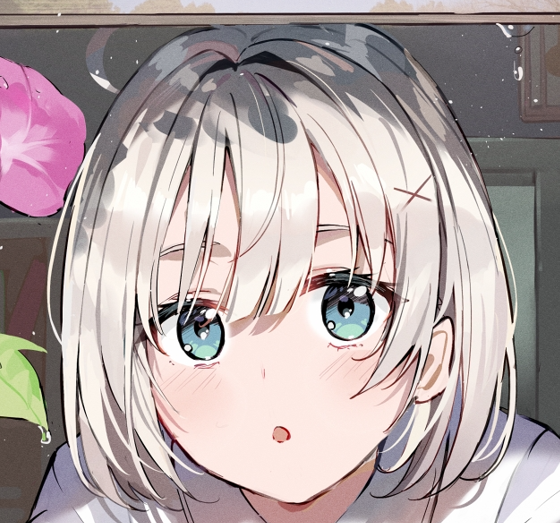
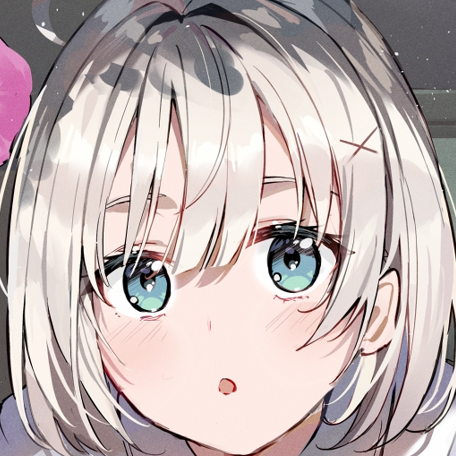
Site updated: 2021-08-09 14:09:02

diff --git a/2021/08/08/hello-world/index.html b/2021/08/08/hello-world/index.html
@@ -25,9 +25,9 @@
 <meta property="article:author" content="Shio_o">
 <meta name="twitter:card" content="summary">
     <link rel="stylesheet" href="https://cdn.jsdelivr.net/combine/npm/highlight.js@9.15.8/styles/atom-one-dark.css,npm/justifiedGallery@3.8.1/dist/css/justifiedGallery.min.css,gh/fancyapps/fancybox@3.5.7/dist/jquery.fancybox.min.css,npm/hexo-theme-nexmoe@latest/source/lib/mdui_043tiny/css/mdui.css,npm/hexo-theme-nexmoe@latest/source/lib/iconfont/iconfont.css?v=233" crossorigin>
-    <link rel="stylesheet" href="/css/style.css?v=1628488418130">
+    <link rel="stylesheet" href="/css/style.css?v=1628489295725">
     
-    <link rel="stylesheet" href="/lib/iconfont/iconfont.css?v=1628488418130">
+    <link rel="stylesheet" href="/lib/iconfont/iconfont.css?v=1628489295725">
 <meta name="generator" content="Hexo 5.4.0"></head>
 
 <body class="mdui-drawer-body-left">
@@ -39,7 +39,7 @@
                 <a mdui-drawer="{target: '#drawer', swipe: true}" title="menu" class="mdui-btn mdui-btn-icon mdui-ripple"><i class="mdui-icon nexmoefont icon-menu"></i></a>
                 <div class="mdui-toolbar-spacer"></div>
                 <!--<a href="javascript:;" class="mdui-btn mdui-btn-icon"><i class="mdui-icon material-icons">search</i></a>-->
-                <a href="/" title="Shio_o" class="mdui-btn mdui-btn-icon"><img src="images/_T90ZMVV$Q9}QCX@]WQD~~P.png" alt="Shio_o"></a>
+                <a href="/" title="Shio_o" class="mdui-btn mdui-btn-icon"><img src="images/lin.png" alt="Shio_o"></a>
             </div>
         </div>
     </div>
@@ -47,7 +47,7 @@
         <div class="nexmoe-drawer mdui-drawer" id="drawer">
     <div class="nexmoe-avatar mdui-ripple">
         <a href="/" title="Shio_o">
-            <img src="images/_T90ZMVV$Q9}QCX@]WQD~~P.png" alt="Shio_o" alt="Shio_o">
+            <img src="images/lin.png" alt="Shio_o" alt="Shio_o">
         </a>
     </div>
     <div class="nexmoe-count">
@@ -206,7 +206,7 @@
 
  
 
-<script async src="/js/app.js?v=1628488418131"></script>
+<script async src="/js/app.js?v=1628489295727"></script>
 
 <script src="https://cdn.jsdelivr.net/npm/justifiedGallery@3.8.1/dist/js/jquery.justifiedGallery.min.js"></script>
 <script>

diff --git a/archives/2021/08/index.html b/archives/2021/08/index.html
@@ -23,9 +23,9 @@
 <meta property="article:author" content="Shio_o">
 <meta name="twitter:card" content="summary">
     <link rel="stylesheet" href="https://cdn.jsdelivr.net/combine/npm/highlight.js@9.15.8/styles/atom-one-dark.css,npm/justifiedGallery@3.8.1/dist/css/justifiedGallery.min.css,gh/fancyapps/fancybox@3.5.7/dist/jquery.fancybox.min.css,npm/hexo-theme-nexmoe@latest/source/lib/mdui_043tiny/css/mdui.css,npm/hexo-theme-nexmoe@latest/source/lib/iconfont/iconfont.css?v=233" crossorigin>
-    <link rel="stylesheet" href="/css/style.css?v=1628488418135">
+    <link rel="stylesheet" href="/css/style.css?v=1628489295731">
     
-    <link rel="stylesheet" href="/lib/iconfont/iconfont.css?v=1628488418135">
+    <link rel="stylesheet" href="/lib/iconfont/iconfont.css?v=1628489295731">
 <meta name="generator" content="Hexo 5.4.0"></head>
 
 <body class="mdui-drawer-body-left">
@@ -37,7 +37,7 @@
                 <a mdui-drawer="{target: '#drawer', swipe: true}" title="menu" class="mdui-btn mdui-btn-icon mdui-ripple"><i class="mdui-icon nexmoefont icon-menu"></i></a>
                 <div class="mdui-toolbar-spacer"></div>
                 <!--<a href="javascript:;" class="mdui-btn mdui-btn-icon"><i class="mdui-icon material-icons">search</i></a>-->
-                <a href="/" title="Shio_o" class="mdui-btn mdui-btn-icon"><img src="images/_T90ZMVV$Q9}QCX@]WQD~~P.png" alt="Shio_o"></a>
+                <a href="/" title="Shio_o" class="mdui-btn mdui-btn-icon"><img src="images/lin.png" alt="Shio_o"></a>
             </div>
         </div>
     </div>
@@ -45,7 +45,7 @@
         <div class="nexmoe-drawer mdui-drawer" id="drawer">
     <div class="nexmoe-avatar mdui-ripple">
         <a href="/" title="Shio_o">
-            <img src="images/_T90ZMVV$Q9}QCX@]WQD~~P.png" alt="Shio_o" alt="Shio_o">
+            <img src="images/lin.png" alt="Shio_o" alt="Shio_o">
         </a>
     </div>
     <div class="nexmoe-count">
@@ -175,7 +175,7 @@
 
  
 
-<script async src="/js/app.js?v=1628488418136"></script>
+<script async src="/js/app.js?v=1628489295732"></script>
 
 <script src="https://cdn.jsdelivr.net/npm/justifiedGallery@3.8.1/dist/js/jquery.justifiedGallery.min.js"></script>
 <script>

diff --git a/archives/2021/index.html b/archives/2021/index.html
@@ -23,9 +23,9 @@
 <meta property="article:author" content="Shio_o">
 <meta name="twitter:card" content="summary">
     <link rel="stylesheet" href="https://cdn.jsdelivr.net/combine/npm/highlight.js@9.15.8/styles/atom-one-dark.css,npm/justifiedGallery@3.8.1/dist/css/justifiedGallery.min.css,gh/fancyapps/fancybox@3.5.7/dist/jquery.fancybox.min.css,npm/hexo-theme-nexmoe@latest/source/lib/mdui_043tiny/css/mdui.css,npm/hexo-theme-nexmoe@latest/source/lib/iconfont/iconfont.css?v=233" crossorigin>
-    <link rel="stylesheet" href="/css/style.css?v=1628488418134">
+    <link rel="stylesheet" href="/css/style.css?v=1628489295729">
     
-    <link rel="stylesheet" href="/lib/iconfont/iconfont.css?v=1628488418134">
+    <link rel="stylesheet" href="/lib/iconfont/iconfont.css?v=1628489295729">
 <meta name="generator" content="Hexo 5.4.0"></head>
 
 <body class="mdui-drawer-body-left">
@@ -37,7 +37,7 @@
                 <a mdui-drawer="{target: '#drawer', swipe: true}" title="menu" class="mdui-btn mdui-btn-icon mdui-ripple"><i class="mdui-icon nexmoefont icon-menu"></i></a>
                 <div class="mdui-toolbar-spacer"></div>
                 <!--<a href="javascript:;" class="mdui-btn mdui-btn-icon"><i class="mdui-icon material-icons">search</i></a>-->
-                <a href="/" title="Shio_o" class="mdui-btn mdui-btn-icon"><img src="images/_T90ZMVV$Q9}QCX@]WQD~~P.png" alt="Shio_o"></a>
+                <a href="/" title="Shio_o" class="mdui-btn mdui-btn-icon"><img src="images/lin.png" alt="Shio_o"></a>
             </div>
         </div>
     </div>
@@ -45,7 +45,7 @@
         <div class="nexmoe-drawer mdui-drawer" id="drawer">
     <div class="nexmoe-avatar mdui-ripple">
         <a href="/" title="Shio_o">
-            <img src="images/_T90ZMVV$Q9}QCX@]WQD~~P.png" alt="Shio_o" alt="Shio_o">
+            <img src="images/lin.png" alt="Shio_o" alt="Shio_o">
         </a>
     </div>
     <div class="nexmoe-count">
@@ -175,7 +175,7 @@
 
  
 
-<script async src="/js/app.js?v=1628488418135"></script>
+<script async src="/js/app.js?v=1628489295730"></script>
 
 <script src="https://cdn.jsdelivr.net/npm/justifiedGallery@3.8.1/dist/js/jquery.justifiedGallery.min.js"></script>
 <script>

diff --git a/archives/index.html b/archives/index.html
@@ -23,9 +23,9 @@
 <meta property="article:author" content="Shio_o">
 <meta name="twitter:card" content="summary">
     <link rel="stylesheet" href="https://cdn.jsdelivr.net/combine/npm/highlight.js@9.15.8/styles/atom-one-dark.css,npm/justifiedGallery@3.8.1/dist/css/justifiedGallery.min.css,gh/fancyapps/fancybox@3.5.7/dist/jquery.fancybox.min.css,npm/hexo-theme-nexmoe@latest/source/lib/mdui_043tiny/css/mdui.css,npm/hexo-theme-nexmoe@latest/source/lib/iconfont/iconfont.css?v=233" crossorigin>
-    <link rel="stylesheet" href="/css/style.css?v=1628488418132">
+    <link rel="stylesheet" href="/css/style.css?v=1628489295728">
     
-    <link rel="stylesheet" href="/lib/iconfont/iconfont.css?v=1628488418132">
+    <link rel="stylesheet" href="/lib/iconfont/iconfont.css?v=1628489295728">
 <meta name="generator" content="Hexo 5.4.0"></head>
 
 <body class="mdui-drawer-body-left">
@@ -37,7 +37,7 @@
                 <a mdui-drawer="{target: '#drawer', swipe: true}" title="menu" class="mdui-btn mdui-btn-icon mdui-ripple"><i class="mdui-icon nexmoefont icon-menu"></i></a>
                 <div class="mdui-toolbar-spacer"></div>
                 <!--<a href="javascript:;" class="mdui-btn mdui-btn-icon"><i class="mdui-icon material-icons">search</i></a>-->
-                <a href="/" title="Shio_o" class="mdui-btn mdui-btn-icon"><img src="images/_T90ZMVV$Q9}QCX@]WQD~~P.png" alt="Shio_o"></a>
+                <a href="/" title="Shio_o" class="mdui-btn mdui-btn-icon"><img src="images/lin.png" alt="Shio_o"></a>
             </div>
         </div>
     </div>
@@ -45,7 +45,7 @@
         <div class="nexmoe-drawer mdui-drawer" id="drawer">
     <div class="nexmoe-avatar mdui-ripple">
         <a href="/" title="Shio_o">
-            <img src="images/_T90ZMVV$Q9}QCX@]WQD~~P.png" alt="Shio_o" alt="Shio_o">
+            <img src="images/lin.png" alt="Shio_o" alt="Shio_o">
         </a>
     </div>
     <div class="nexmoe-count">
@@ -175,7 +175,7 @@
 
  
 
-<script async src="/js/app.js?v=1628488418133"></script>
+<script async src="/js/app.js?v=1628489295729"></script>
 
 <script src="https://cdn.jsdelivr.net/npm/justifiedGallery@3.8.1/dist/js/jquery.justifiedGallery.min.js"></script>
 <script>

diff --git a/index.html b/index.html
@@ -23,9 +23,9 @@
 <meta property="article:author" content="Shio_o">
 <meta name="twitter:card" content="summary">
     <link rel="stylesheet" href="https://cdn.jsdelivr.net/combine/npm/highlight.js@9.15.8/styles/atom-one-dark.css,npm/justifiedGallery@3.8.1/dist/css/justifiedGallery.min.css,gh/fancyapps/fancybox@3.5.7/dist/jquery.fancybox.min.css,npm/hexo-theme-nexmoe@latest/source/lib/mdui_043tiny/css/mdui.css,npm/hexo-theme-nexmoe@latest/source/lib/iconfont/iconfont.css?v=233" crossorigin>
-    <link rel="stylesheet" href="/css/style.css?v=1628488418133">
+    <link rel="stylesheet" href="/css/style.css?v=1628489295732">
     
-    <link rel="stylesheet" href="/lib/iconfont/iconfont.css?v=1628488418133">
+    <link rel="stylesheet" href="/lib/iconfont/iconfont.css?v=1628489295732">
 <meta name="generator" content="Hexo 5.4.0"></head>
 
 <body class="mdui-drawer-body-left">
@@ -37,7 +37,7 @@
                 <a mdui-drawer="{target: '#drawer', swipe: true}" title="menu" class="mdui-btn mdui-btn-icon mdui-ripple"><i class="mdui-icon nexmoefont icon-menu"></i></a>
                 <div class="mdui-toolbar-spacer"></div>
                 <!--<a href="javascript:;" class="mdui-btn mdui-btn-icon"><i class="mdui-icon material-icons">search</i></a>-->
-                <a href="/" title="Shio_o" class="mdui-btn mdui-btn-icon"><img src="images/_T90ZMVV$Q9}QCX@]WQD~~P.png" alt="Shio_o"></a>
+                <a href="/" title="Shio_o" class="mdui-btn mdui-btn-icon"><img src="images/lin.png" alt="Shio_o"></a>
             </div>
         </div>
     </div>
@@ -45,7 +45,7 @@
         <div class="nexmoe-drawer mdui-drawer" id="drawer">
     <div class="nexmoe-avatar mdui-ripple">
         <a href="/" title="Shio_o">
-            <img src="images/_T90ZMVV$Q9}QCX@]WQD~~P.png" alt="Shio_o" alt="Shio_o">
+            <img src="images/lin.png" alt="Shio_o" alt="Shio_o">
         </a>
     </div>
     <div class="nexmoe-count">
@@ -175,7 +175,7 @@
 
  
 
-<script async src="/js/app.js?v=1628488418134"></script>
+<script async src="/js/app.js?v=1628489295733"></script>
 
 <script src="https://cdn.jsdelivr.net/npm/justifiedGallery@3.8.1/dist/js/jquery.justifiedGallery.min.js"></script>
 <script>
